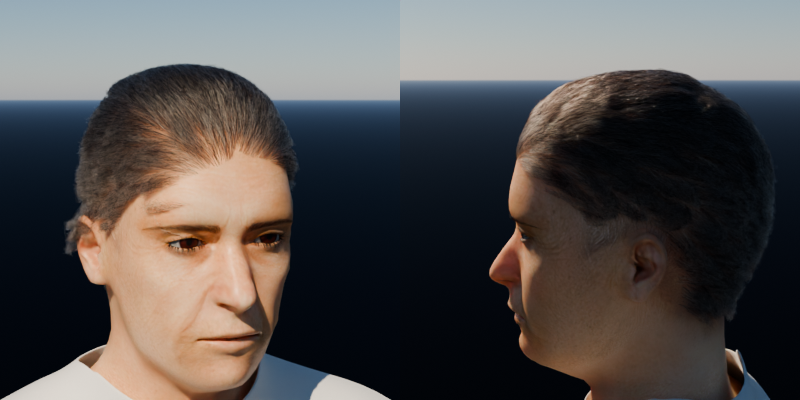
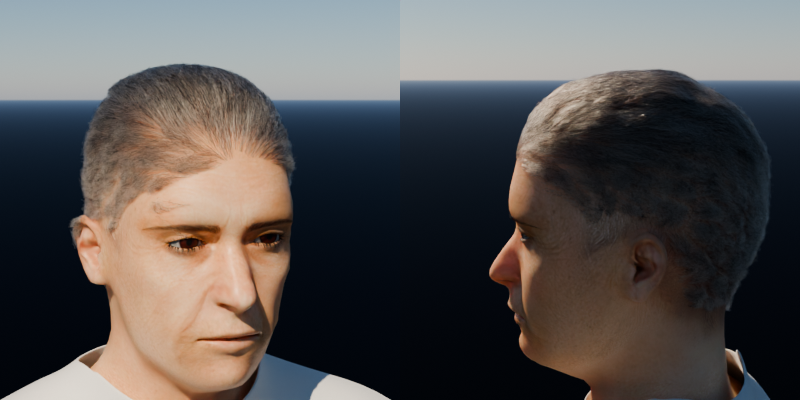
Hair: greyer mix, clipped sides lying close to the scalp, wavy locks on top (run 011 step 4)
Claude-Session: https://claude.ai/code/session_01CDvtC8YtMDTCkqUDhevinG

diff --git a/recipes/haircut.py b/recipes/haircut.py
@@ -52,8 +52,8 @@ class Scalp:
         return out_p, out_n
 
 
-def short_back_and_sides(scalp, points, top_length=0.065, side_length=0.012, back_length=0.014,
-                         hairline=0.058, nape=-0.065, grey_top=0.3, grey_sides=0.55):
+def short_back_and_sides(scalp, points, top_length=0.065, side_length=0.006, back_length=0.008,
+                         hairline=0.058, nape=-0.06, grey_top=0.55, grey_sides=0.8):
     """Scalp map for a short, combed-back cut: longer on top, clipped short at the sides and
     back. Returns density, length, combing direction and greyness per point."""
     rel = points - scalp.centre
@@ -93,7 +93,8 @@ def sample_roots(scalp, count, style, seed=0, oversample=4):
     return pts, nrm
 
 
-def grow_guides(scalp, roots, style, steps=10, lift=(0.0015, 0.007), volume=0.010):
+def grow_guides(scalp, roots, style, steps=10, lift=(0.0015, 0.007), volume=0.010, wave=0.006,
+                wavelength=0.035, seed=0):
     """Guide strands that follow the combing direction over the scalp, lying on a shell that
     rises from `lift[0]` above the scalp at the root to `lift[1]` at the tip."""
     _, length, _, _ = style(scalp, roots)
@@ -101,10 +102,17 @@ def grow_guides(scalp, roots, style, steps=10, lift=(0.0015, 0.007), volume=0.01
     pts[:, 0] = roots
     seg = length / (steps - 1)
     cur = roots.copy()
+    phase = np.random.default_rng(seed).uniform(0.0, 2 * np.pi, len(roots))
     for k in range(1, steps):
         _, _, comb, _ = style(scalp, cur)
         on, n = scalp.nearest(cur)
         d = comb - n * np.einsum("ij,ij->i", comb, n)[:, None]           # along the surface
+        d /= np.maximum(np.linalg.norm(d, axis=1, keepdims=True), 1e-9)
+        # sideways wave along longer strands, so the top breaks up into locks
+        side = np.cross(n, d)
+        travelled = seg * k
+        sway = wave * np.clip((length - 0.02) / 0.05, 0.0, 1.0) * np.cos(2 * np.pi * travelled / wavelength + phase)
+        d = d + side * (sway / np.maximum(seg, 1e-6))[:, None] * 0.25
         d /= np.maximum(np.linalg.norm(d, axis=1, keepdims=True), 1e-9)
         nxt = cur + d * seg[:, None]
         q, qn = scalp.nearest(nxt)
@@ -112,7 +120,9 @@ def grow_guides(scalp, roots, style, steps=10, lift=(0.0015, 0.007), volume=0.01
         # longer strands stand further off the scalp (a quiff of volume on top); the short
         # sides stay close. (A flat shell made the hair look painted on.)
         extra = volume * np.clip((length - 0.02) / 0.05, 0.0, 1.0) * np.sin(np.pi * min(t * 1.2, 1.0))
-        cur = q + qn * (lift[0] + (lift[1] - lift[0]) * t + extra)[:, None] if np.ndim(extra) else q + qn * (lift[0] + (lift[1] - lift[0]) * t)
+        # short strands lie close to the skin (clipped sides); long ones rise to lift[1]
+        rise = (lift[1] - lift[0]) * np.clip(length / 0.05, 0.15, 1.0)
+        cur = q + qn * (lift[0] + rise * t + extra)[:, None]
         pts[:, k] = cur
     return pts
 
@@ -205,7 +215,7 @@ def haircut(scene, base_verts, style=short_back_and_sides, guides=400, children=
     started = time.time()
     scalp = Scalp(base_verts)
     g_roots, _ = sample_roots(scalp, guides, style, seed=seed)
-    g = grow_guides(scalp, g_roots, style, steps=steps)
+    g = grow_guides(scalp, g_roots, style, steps=steps, seed=seed)
     t_guides = time.time() - started
     c_roots, _ = sample_roots(scalp, children, style, seed=seed + 1)
     kids = interpolate(scalp, g, c_roots, clump=clump, frizz=frizz, seed=seed + 2)
